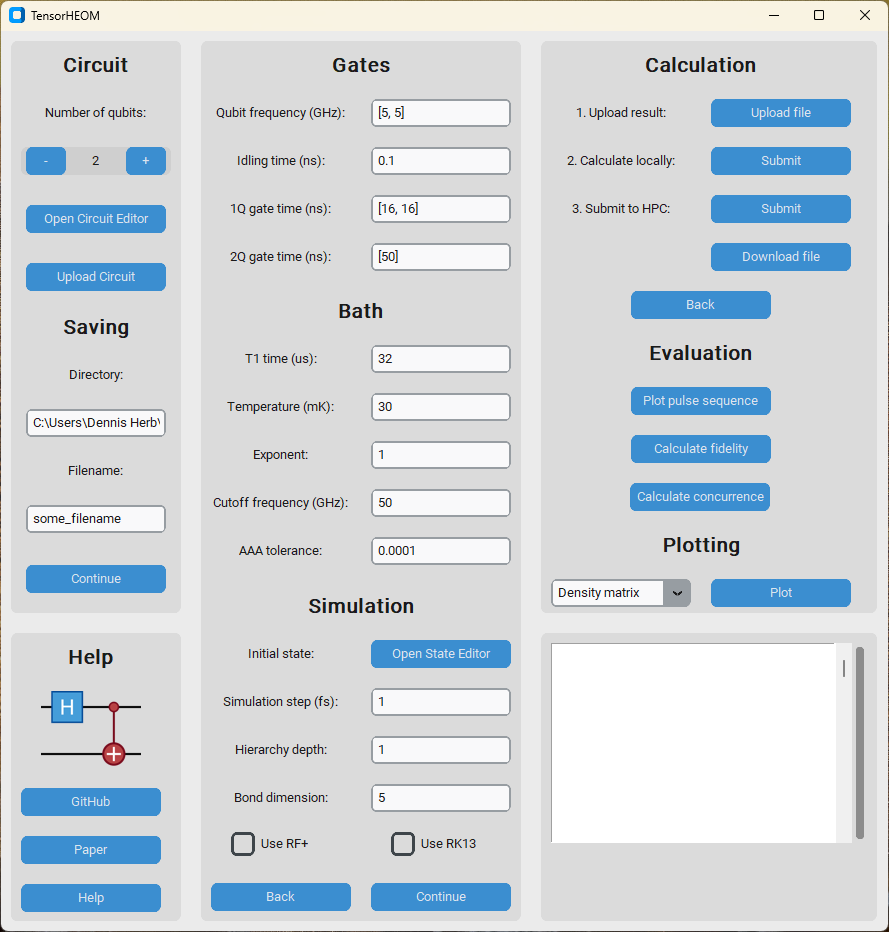
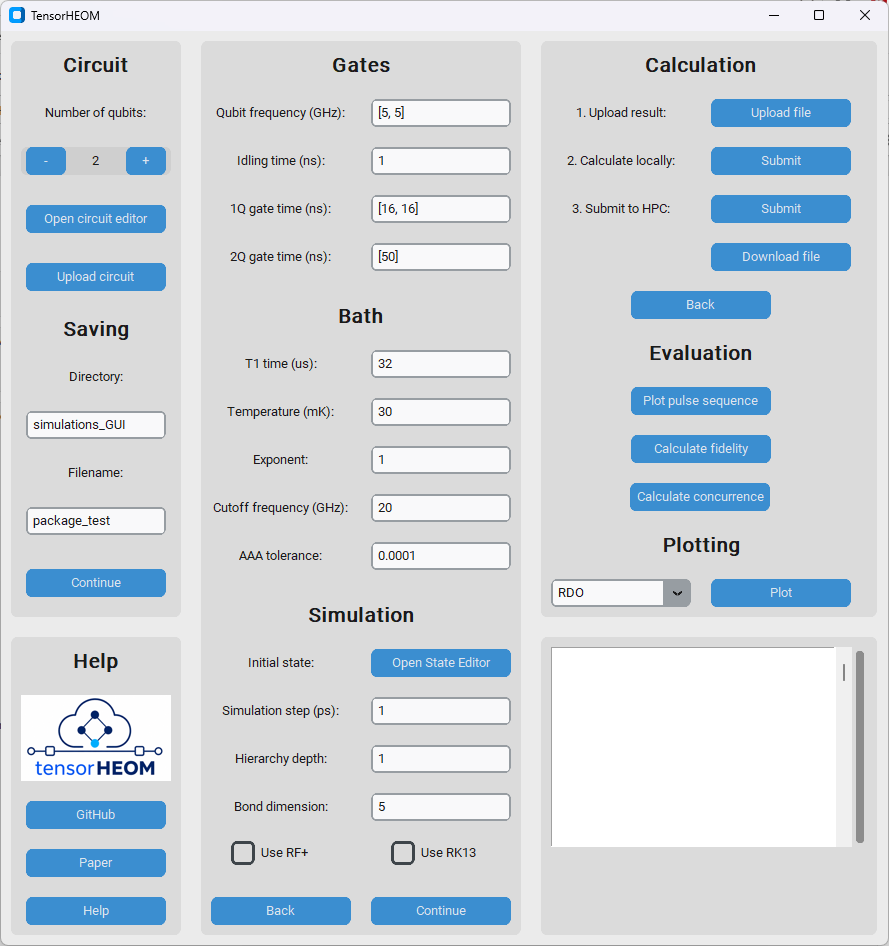
preparation for package release

diff --git a/README.md b/README.md
@@ -47,53 +47,59 @@ A typical workflow is:
 
 ```python
 from qiskit import QuantumCircuit
-from ttheom import *calcTimeEvo*
+from ttheom import *
 
+# Set system parameters
 system_kwargs = {
-    "numQ": 1,
-    "freqQ": [5], # GHz
-    "rhoIni": np.array([[1,0],[0,0]]),
-    "gateTime": [16], # ns
+    "numQ": 2,
+    "freqQ": [5, 5], # GHz
+    "rhoIni": [
+        [1, 0, 0, 0],
+        [0, 0, 0, 0],
+        [0, 0, 0, 0],
+        [0, 0, 0, 0],
+    ],
+    "gateTime": [16, 16, 50], # ns
     "idlingTime": 1, # ns
-}
+} 
+
 omegaQmax, rho = prepareSystemArgs(**system_kwargs)
 
-# set qc
-qc = QuantumCircuit(1)
-qc.rx(0.5*np.pi, 0)
-qc.delay(0, 0)
-qc.ry(0.5*np.pi, 0)
-qc.delay(0, 0)
-qc.ry(-0.5*np.pi, 0)
+# Define input circuit
+qc = QuantumCircuit(2)
+qc.h(0)
+qc.cx(0, 1)
+
 system_kwargs["qc"] = qc
 
-# set bath params
-bath_kwargs = {
+# Set bath parameters
+bath_kwargs = {    
     "T": 30, # mK
     "T1": 32, # us
     "omegaC": 20,
-    "exp": 1,
+    "exp": 1/8,
     "tol": 1e-4,
 }
-bathParams = prepareBathArgs(rho, omegaQmax, **bath_kwargs)[0]
+bathParams = prepareBathArgs(rho, omegaQmax, **bath_kwargs)
 
 # AAA decomposition
-z, d = getBathParams(bathParams)
+z, d = getBathParams(bathParams[0])
 
-# set simulations params
+# Set simulation parameters
 simulation_kwargs= {
-    "directory": ...,
-    "fileName": ...,
-    "dtFB": 1.5, # ps
-    "depth": [1],
+    "dtFB": 3.0, # ps
+    "depth": [1, 1],
     "bondDim": 5,
     "strideTime": 0.1, # ns
     "useRFPlus": False,
     "isRK13": False,
 }
 
-# run the calculation 
-calcTimeEvo(**system_kwargs, **bath_kwargs, **simulation_kwargs) 
+# Run the calculation 
+kwargs = {**system_kwargs, **bath_kwargs, **simulation_kwargs}
+kwargs["directory"] = "results"
+kwargs["fileName"] = "package_test"
+calcTimeEvo(**kwargs) 
 ```
 
 ## Graphical interface